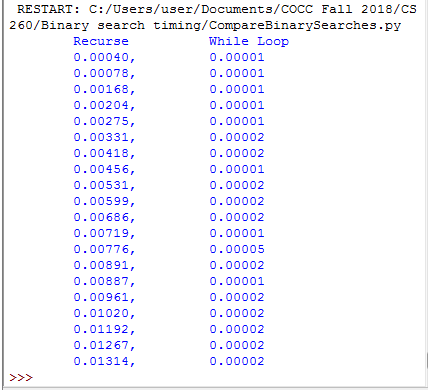
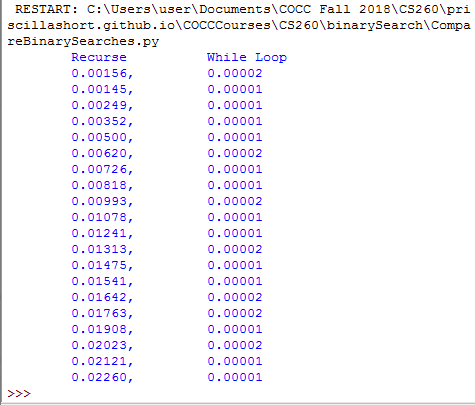
Version 4.2.6
Add chap 5 excer 3. Do not use slice in recursive binary search.

Changed region(s): [[0.0, 0.0, 1.0, 1.0]]

diff --git a/COCCCourses/CS260/binarySearch/binarySearch.html b/COCCCourses/CS260/binarySearch/binarySearch.html
@@ -36,10 +36,10 @@
 			<a href="CompareBinarySearches.py" download="CompareBinarySearches.py">Run/Download python file File</a>
     </p>
     <br>
-    <script src="https://pastebin.com/embed_js/30KnLrJQ"></script>
+    <script src="https://pastebin.com/embed_js/U0VxQbPE"></script>
     <br>
     <h3>
-      Description of problem:
+      Description of Excercise:
       <br>
       Use the binary search functions given in the text (recursive and iterative).
       Generate a random, ordered list of integers and do a benchmark analysis for each one.
@@ -48,7 +48,7 @@
       <br>
       Answer:
       <br>
-      the slice operator in Python, used in the recursive version is actually O(k).
+      The slice operator in Python, used in the recursive version is actually O(k).
       This means that the binary search using slice will not perform in strict logarithmic time, which makes it slower in its current state.
       <br>
       <br>
@@ -56,6 +56,34 @@
     </h3>
     <br>
     <img class="bordersingle" src="binaryCompareOutput.PNG" alt="binaryCompareOutput" style="width:800px;height:700px;">
+    <br>
+    <h3>
+      If the recursive version of the binary search is implemented by passing start and end values for the list
+      instead of slicing the list. The recursive binary search becomes more efficient and can truly operate as a 
+      log n function
+    </h3>
+    <br>
+    <p>
+			<a href="CompareBinarySearchesNoSlice.py" download="CompareBinarySearchesNoSlice.py">Run/Download python file File</a>
+    </p>
+    <br>
+    <script src="https://pastebin.com/embed_js/DfbriEZX"></script>
+    <br>
+    <h3>
+        Description of Excercise:
+        <br>
+        Implement the binary search using recursion without the slice operator.
+        Recall that you will need to pass the list along with the starting and
+        ending index values for the sublist. Generate a random, ordered list of
+        integers and do a benchmark analysis.
+        <br>
+        <br>
+        See output of code below.
+    </h3>
+    <br>
+    <img class="bordersingle" src="binaryCompareOutputNoSlice.PNG" alt="binaryCompareOutputNoSlice" style="width:800px;height:700px;">
+    <br>
+    <br>
     <h2>
       <a href="../CS260.html">CS260 Home</a>
     </h2>

diff --git a/COCCCourses/CS260/binarySearch/CompareBinarySearchesNoSlice.py b/COCCCourses/CS260/binarySearch/CompareBinarySearchesNoSlice.py
@@ -4,16 +4,13 @@ import timeit
 
 """
     Priscilla Short
-    Compare recursive binary search to looping binary search using randon ints
+    Compare recursive binary search without slice to looping binary search using randon ints
     
     Description of problem:
-    Use the binary search functions given in the text (recursive and iterative).
-    Generate a random, ordered list of integers and do a benchmark analysis for each one.
-    What are your results? Can you explain them?
-    
-    Answer:
-    the slice operator in Python, used in the recursive version is actually O(k).
-    This means that the binary search using slice will not perform in strict logarithmic time, which makes it slower in its current state.
+    Implement the binary search using recursion without the slice operator.
+    Recall that you will need to pass the list along with the starting and
+    ending index values for the sublist. Generate a random, ordered list of
+    integers and do a benchmark analysis.
 """
 
 def binarySearch(alist, item):
@@ -32,23 +29,22 @@ def binarySearch(alist, item):
                 first = midpoint+1
     return found
 
-def recurBinarySearch(alist, item):
-    if len(alist) == 0:
+def recurBinarySearch(alist, item, start, end):
+    if start == end: #len(alist) == 0:
         return False
     else:
-        midpoint = len(alist)//2
-        if alist[midpoint]==item:
+        midpoint = ((end - start)//2) + start
+        if alist[midpoint] == item:
             return True
         else:
-            if item<alist[midpoint]:
-                return recurBinarySearch(alist[:midpoint],item)
+            if item < alist[midpoint]:
+                return recurBinarySearch(alist, item, start, midpoint)
             else:
-                return recurBinarySearch(alist[midpoint+1:],item)
-
+                return recurBinarySearch(alist, item, midpoint+1, end)
 
 
 print("        Recurse          While Loop")
-recur = timeit.Timer("recurBinarySearch(lst, searchFor)", "from __main__ import recurBinarySearch, lst, searchFor")
+recur = timeit.Timer("recurBinarySearch(lst, searchFor, 0, len(lst))", "from __main__ import recurBinarySearch, lst, searchFor")
 whileL = timeit.Timer("binarySearch(lst, searchFor)", "from __main__ import binarySearch, lst, searchFor")
 for i in range(100000,2000001,100000):
     lst = [item for item in range(i)]
